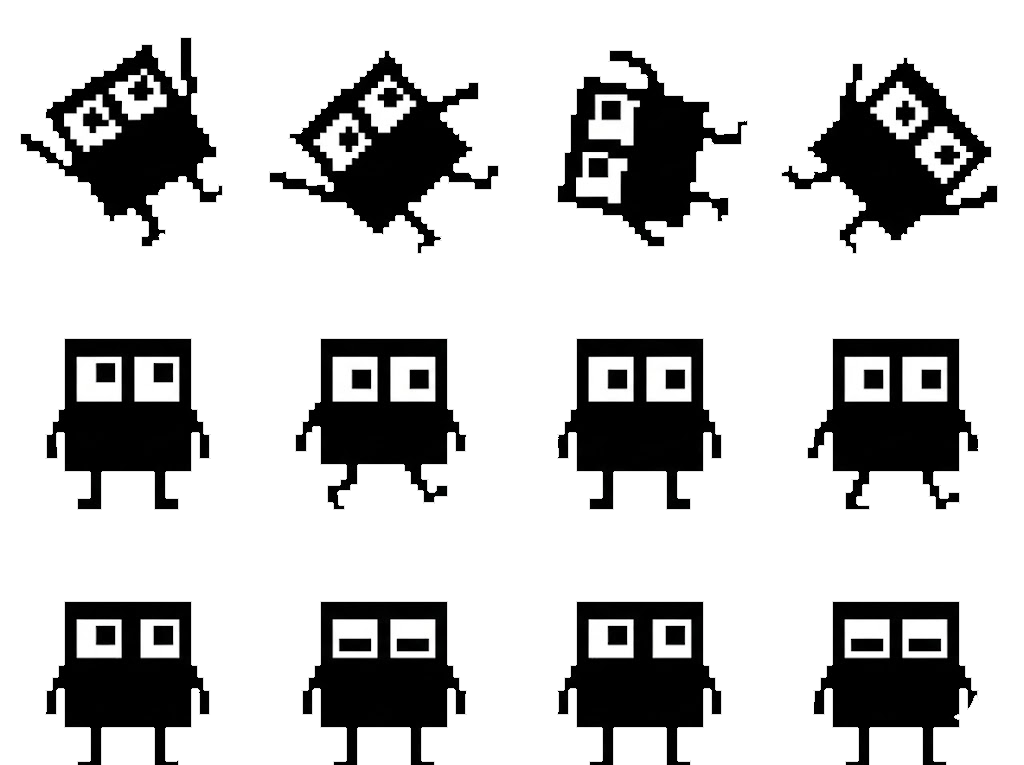
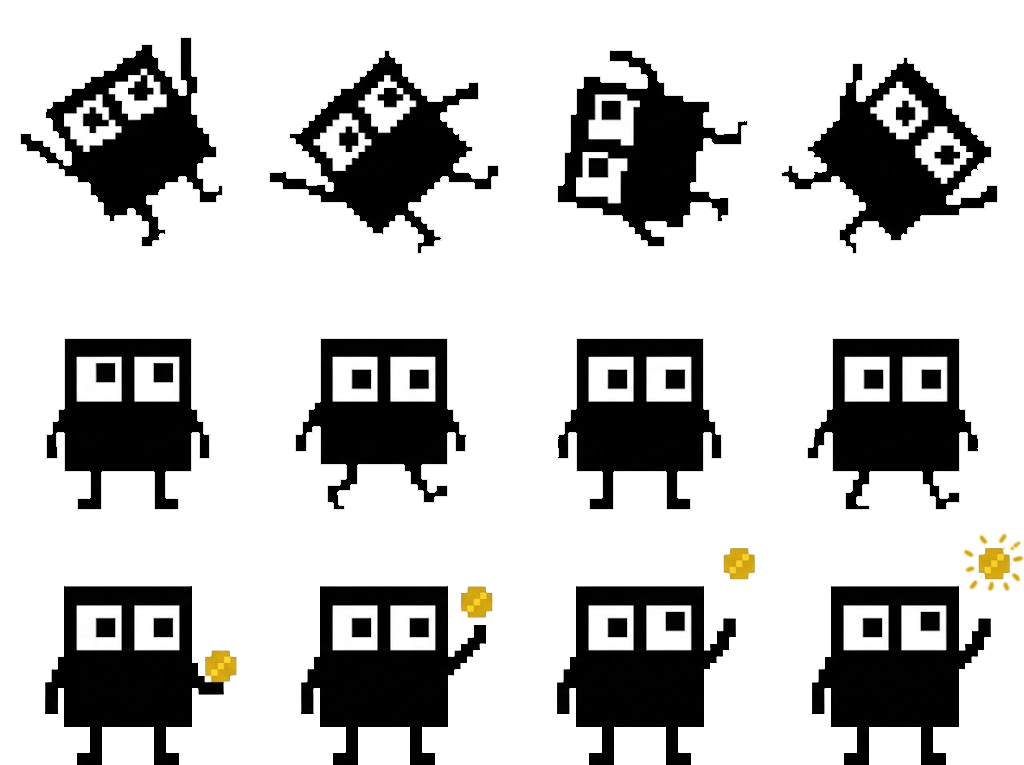
gold coin toss

diff --git a/js/entities/Crowd.js b/js/entities/Crowd.js
@@ -26,6 +26,10 @@ class Crowd {
         this._grabOffsetY = 0;
         this._cursorHistory = [];      // ring-buffer of {x,y,t}
 
+        this.goldPerSecondPerPerson = 0.1; 
+        /** @type {((amount: number, source: string) => void) | null} */
+        this.onCoinDrop = null;             // set by FireworkGame
+
         this._initializeCrowd();
     }
 
@@ -224,6 +228,11 @@ class Crowd {
             animLoop: animDef ? animDef.loop : true,
             animTimer: Math.random() * (animDef ? animDef.frameDuration * animDef.frameCount : 1),
             animFrame: 0,
+            // Gold accumulation — fills up to 1.0 then drops a coin
+            goldAccumulator: Math.random(),  // stagger so coins don't all drop at once
+            // Coin-toss animation: countdown timer; when > 0 the toss_coin anim plays
+            coinAnimTimer: 0,
+            coinAnimPrevAnim: null,
         };
 
         // Compute initial absolute frame index
@@ -383,6 +392,43 @@ class Crowd {
         const GRAVITY = CROWD_CONFIG.gravity;
         const FRICTION = CROWD_CONFIG.friction;
         const WALK_SPEED = CROWD_CONFIG.walkSpeed;
+
+        // Gold accumulation — each person fills up independently
+        const goldRate = this.goldPerSecondPerPerson;
+        const tossCoinDef = this.animToSheet.get('toss_coin');
+        const tossCoinDuration = tossCoinDef
+            ? tossCoinDef.animDef.frameDuration * tossCoinDef.animDef.frameCount
+            : 0;
+
+        for (let i = 0; i < this.people.length; i++) {
+            const person = this.people[i];
+            person.goldAccumulator += goldRate * deltaTime;
+            if (person.goldAccumulator >= 1.0) {
+                const coins = Math.floor(person.goldAccumulator);
+                person.goldAccumulator -= coins;
+                if (this.onCoinDrop) {
+                    this.onCoinDrop(coins, 'crowd');
+                }
+                // Play toss_coin animation for one full cycle
+                if (tossCoinDef && person.coinAnimTimer <= 0) {
+                    person.coinAnimPrevAnim = person.animName;
+                    person.coinAnimTimer = tossCoinDuration;
+                    this.setAnimation(i, 'toss_coin');
+                }
+            }
+
+            // Count down the coin-toss animation and restore previous anim
+            if (person.coinAnimTimer > 0) {
+                person.coinAnimTimer -= deltaTime;
+                if (person.coinAnimTimer <= 0) {
+                    person.coinAnimTimer = 0;
+                    if (person.coinAnimPrevAnim) {
+                        this.setAnimation(i, person.coinAnimPrevAnim);
+                        person.coinAnimPrevAnim = null;
+                    }
+                }
+            }
+        }
 
         for (let i = 0; i < this.people.length; i++) {
             const person = this.people[i];

diff --git a/js/ui/UIManager.js b/js/ui/UIManager.js
@@ -776,31 +776,14 @@ class UIManager {
             const countText = isCompact ?
                 `${formatCompactNumber(sparklesCount)} sp` :
                 `${sparklesCount}`;
-            const rateText = isCompact ?
-                ` (+${formatCompactNumber(totalSparklesRate)}/s)` :
-                ` (+${totalSparklesRate}/s)`;
 
-            el.innerHTML = `${countText}<span style="font-size: 0.8em; opacity: 0.8;">${rateText}</span>`;
+            el.textContent = countText;
         });
-
-        const sparkleRateEl = sparklesElement.querySelector('.sparkle-rate');
-        if (sparkleRateEl) sparkleRateEl.textContent = '';
-
-        const totalRateEl = sparklesElement.querySelector('.total-rate');
-        if (totalRateEl) totalRateEl.textContent = '';
 
         const gold = this.game.resourceManager.resources.gold;
         const goldTotalElements = sparklesElement.querySelectorAll('.gold-total');
         goldTotalElements.forEach(el => {
-            const countText = gold.formatAmount();
-            const rateText = ` (+${gold.perSecond.toFixed(1)}/s)`;
-
-            el.innerHTML = `${countText}<span style="font-size: 0.8em; opacity: 0.8;">${rateText}</span>`;
-        });
-
-        const goldRateElements = sparklesElement.querySelectorAll('.gold-rate');
-        goldRateElements.forEach(el => {
-            el.textContent = '';
+            el.textContent = gold.formatAmount();
         });
 
         if (!sparklesElement._hasClickHandler) {

diff --git a/js/resources/Gold.js b/js/resources/Gold.js
@@ -3,31 +3,9 @@ import Resource from './Resource.js';
 export default class Gold extends Resource {
     constructor(initialAmount = 0) {
         super('Gold', 'G', initialAmount);
-        this.basePerCrowdMember = 0.1;
     }
 
-    updateFromCrowd(crowdSize) {
-        this.perSecond = crowdSize * this.basePerCrowdMember;
-    }
-
-    /**
-     * Compute how much gold should be added this tick (based on _perSecond
-     * and elapsed time) WITHOUT adding it. Resets the internal timer.
-     * The caller (ResourceManager) routes the amount through game.addGold()
-     * so it gets source-tracked by StatsTracker.
-     * @returns {number}
-     */
-    computePassiveIncome() {
-        const now = performance.now();
-        const dt = (now - this._lastUpdate) / 1000;
-        this._lastUpdate = now;
-        return this._perSecond * dt;
-    }
-
-    /** Override so the base update() does NOT also accumulate gold. */
     update() {
-        // Intentionally empty – income is handled by computePassiveIncome()
-        // which is called from ResourceManager and routed through addGold().
         this._lastUpdate = performance.now();
     }
 }

diff --git a/js/game/FireworkGame.js b/js/game/FireworkGame.js
@@ -169,6 +169,7 @@ class FireworkGame extends Engine {
         this.droneSystem = new InstancedDroneSystem(this.renderer2D, this.particleSystem);
         this.droneSystem.maxDrones = this.droneStats.maxDrones;
         this.crowd = new Crowd(this.renderer2D);
+        this.crowd.onCoinDrop = (amount, source) => this.addGold(amount, source);
 
         const initialSps = this.calculateTotalSparklesPerSecond();
         const initialCrowd = this._calculateTargetCrowdCount(initialSps);
@@ -506,7 +507,6 @@ class FireworkGame extends Engine {
         const targetCrowdSize = this._calculateTargetCrowdCount(currentSps);
         this.crowd.setCount(targetCrowdSize);
 
-        this.resourceManager.updateGoldFromCrowd(this.crowd.people.length);
         this.resourceManager.update();
 
         this.crowd.update(deltaTime);
@@ -768,6 +768,7 @@ class FireworkGame extends Engine {
         if (this.crowd) {
             this.crowd.dispose();
             this.crowd = new Crowd(this.renderer2D);
+            this.crowd.onCoinDrop = (amount, source) => this.addGold(amount, source);
         }
 
 

diff --git a/js/config/spriteAnimations.js b/js/config/spriteAnimations.js
@@ -60,17 +60,17 @@ export const SPRITE_ANIMATIONS = {
                 walking_right: {
                     row: 1,
                     frameCount: 4,
+                    frameDuration: 0.05,
+                    loop: true,
+                },
+                toss_coin: {
+                    row: 2,
+                    frameCount: 4,
                     frameDuration: 0.15,
                     loop: true,
                 },
-                blinking: {
-                    row: 2,
-                    frameCount: 4,
-                    frameDuration: 0.30,
-                    loop: true,
-                },
             },
-            defaultAnimation: 'blinking',
+            defaultAnimation: 'falling',
         },
     ],
 

diff --git a/js/resources/ResourceManager.js b/js/resources/ResourceManager.js
@@ -16,16 +16,6 @@ export default class ResourceManager {
         // Sparkles self-accumulates via _perSecond (set from building SPS).
         this.resources.sparkles.update();
 
-        // Gold income is routed through game.addGold() so StatsTracker
-        // can attribute it to the 'crowd' source.
-        const goldIncome = this.resources.gold.computePassiveIncome();
-        if (goldIncome > 0) {
-            this.game.addGold(goldIncome, 'crowd');
-        }
-    }
-
-    updateGoldFromCrowd(crowdSize) {
-        this.resources.gold.updateFromCrowd(crowdSize);
     }
 
     reset() {

diff --git a/index.html b/index.html
@@ -35,7 +35,6 @@
                     </div>
                     <div class="ressource-total">
                         <span class="gold-total"></span>
-                        <span class="gold-rate"></span>
                     </div>
                 </div>
                 <div class="ressource-count-expanded">
